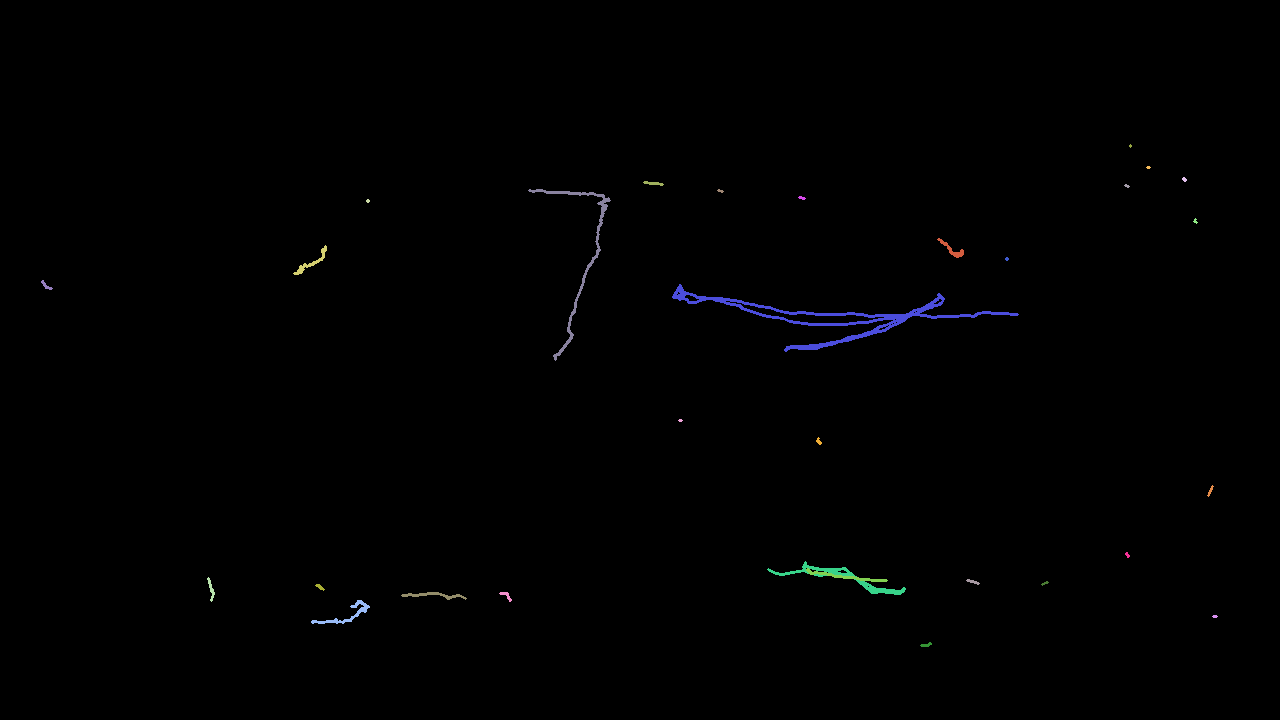
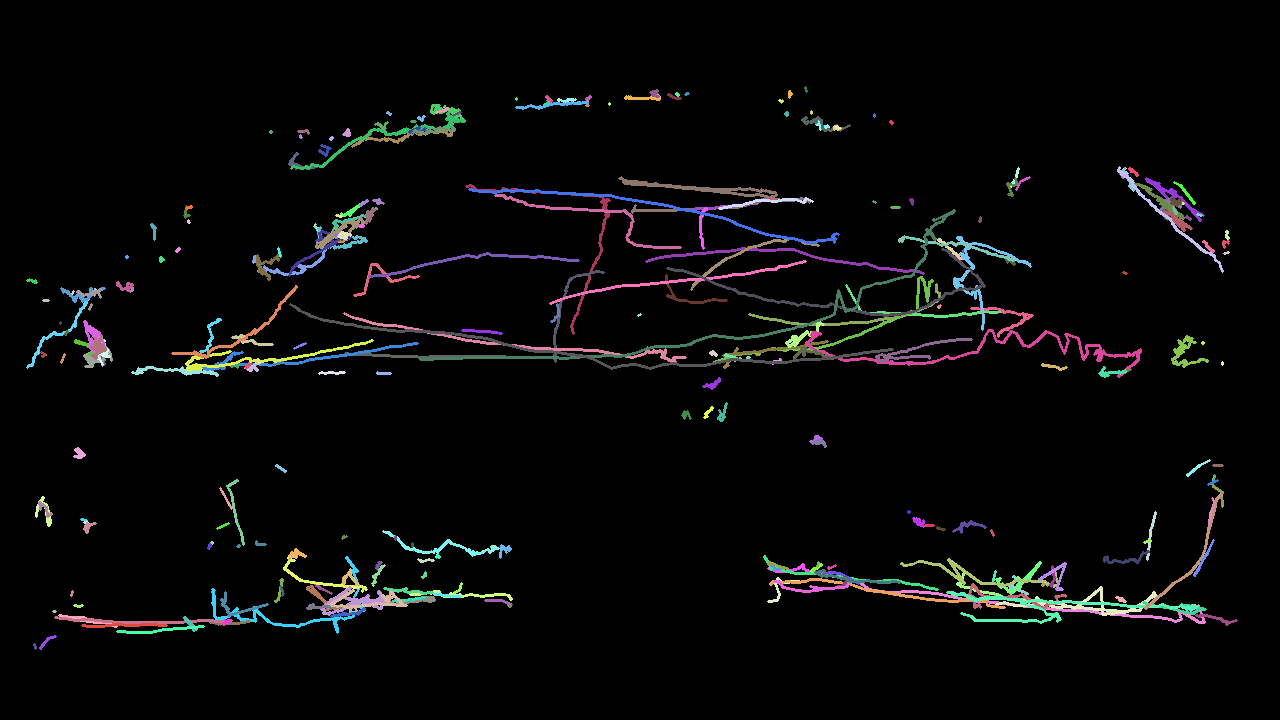
tuning

diff --git a/motionExtraction.py b/motionExtraction.py
@@ -8,11 +8,11 @@ import json
 # sameThresh = 0.5
 # varianceThresh = 500
 
-percentMatch = 0.7 #if area covered is some percent
+percentMatch = 0.5 #if area covered is some percent
 percentUnknown = 0.3 # if area is covered by multiple objects
 
-tClose = 1 * 30  #      ________ 0   
-tThresh = 2 * 30 #     / tClose
+tClose = 0.3 * 30  #      ________ 0   
+tThresh = 0.6 * 30 #    / tClose
                  #____/tThresh 
 
 rThresh = 10 # threshold on changing radius
@@ -20,7 +20,7 @@ rThresh = 10 # threshold on changing radius
 frameDiff = 1
 frameskip = 200
 
-moveThresh = 40
+moveThresh = 20
 robotThresh = 30
 robotSize = 45
 
@@ -30,7 +30,7 @@ prevFrames = []
 maxContours = 15
 
 #motion, average, contours, time, tracking
-mode = 'time'
+mode = 'motion'
 
 fileName = 'Huenmeme'
 video = cv2.VideoCapture(r'Match 1 (R1) - 2024 Hueneme Port Regional.mp4')
@@ -38,8 +38,8 @@ video = cv2.VideoCapture(r'Match 1 (R1) - 2024 Hueneme Port Regional.mp4')
 ret, frame = video.read()
 rows, cols, ch = frame.shape
 
-idAreas = np.zeros((rows, cols), dtype = np.float64)
-tAreas = np.zeros((rows, cols), dtype = np.float64)
+idAreas = np.zeros((rows, cols), dtype = np.float32)
+tAreas = np.zeros((rows, cols), dtype = np.float32)
 paths = np.zeros((rows, cols, 3), dtype = np.uint8)
 
 class FieldObject():
@@ -65,7 +65,14 @@ class FieldObject():
         self.path.append((point, radius, t))
 
     def updateT(point, r, t):
-        cv2.circle(tAreas, point, r, t, cv2.FILLED)
+        x1 = (point[1] - r)
+        y1 = (point[0] - r)
+        x2 = (point[1] + r)
+        y2 = (point[0] + r)
+        area = tAreas[x1 : x2,  y1 : y2].copy()
+        circleMask = cv2.circle(np.zeros(area.shape, np.float32), (r, r), r, 1.0, thickness=cv2.FILLED)
+        area = np.where((area*circleMask) > (t - tClose), t, area)
+        tAreas[x1:x2, y1:y2] = area
 
     def getObject(point, radius, t):
         if radius < 5:
@@ -220,7 +227,7 @@ try:
             r = int(np.mean(np.sqrt((dist*dist).sum(axis = 2))))
 
             obj = FieldObject.getObject(center, r, n)
-            color = (0, 255, 0)
+            color = (0, 0, 255)
             if obj is None:
                 pass
             elif obj == -1:
@@ -228,7 +235,7 @@ try:
                 color = (0, 255, 255)
             elif obj == 0:
                 FieldObject(center, r, n)
-                color = (255, 0, 0)
+                color = (255, 255, 0)
             else:
                 color = (0, 255, 0)
                 obj.addPoint(center, r, n)

diff --git a/motionGrapher.py b/motionGrapher.py
@@ -5,7 +5,9 @@ import cv2
 import random
 
 filename = "Huenmemepaths.json"
-minLength = 20
+minLength = 0
+
+print("8" + "="*random.randint(0, 40) + ">")
 
 with open(filename, "r") as file:
     data = json.load(file)
